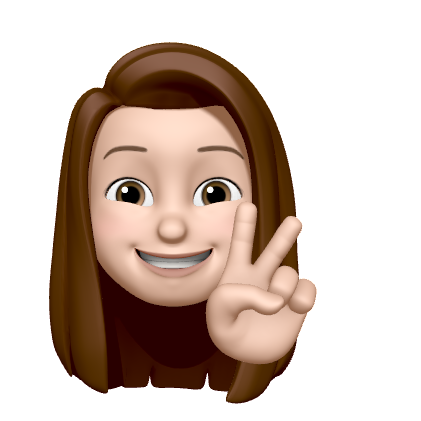
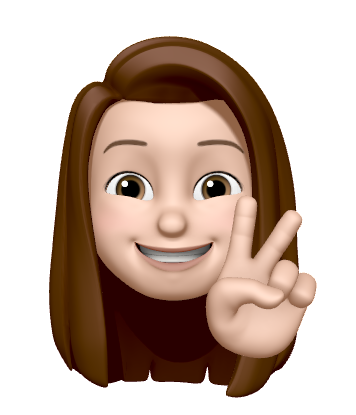
hover changes home

diff --git a/src/data.js b/src/data.js
@@ -4,7 +4,7 @@ export const projects = [
       subtitle: "React, HTML, CSS",
       description:
         "Designing and Developing a website to browse Spotify's newest releases",
-      image: "jamz-mockup.png",
+      image: "jamz/jamz-mockup.png",
       link: "https://happyquokka123.github.io/jamz-findz",
     },
     {
@@ -12,7 +12,7 @@ export const projects = [
       subtitle: "Swift, Python",
       description:
         "A mobile app to practice speech, built for those with speech impediments.",
-      image: "speech-me-mockup.png",
+      image: "speech-me/speech-me-mockup.png",
       link: "",
     },
     {
@@ -20,15 +20,15 @@ export const projects = [
       subtitle: "HTML, CSS, and JS",
       description:
         "Responsive redesign of a local bagel restaurant's website. Built with HTML, CSS, and JavaScript.",
-      image: "redesign-mockup.png",
+      image: "redesign/redesign-mockup.png",
       link: "/redesign",
     },
     {
-        title: "Iterative Design for Hello",
+        title: "Hello",
         subtitle: "Figma",
         description:
           "Iterative design project for Hello, a startup search engine for develoopers.",
-        image: "hello-mockup.png",
+        image: "hello/hello-mockup.png",
         link: "",
     },
     {
@@ -36,7 +36,7 @@ export const projects = [
       subtitle: "UX Research",
       description:
         "UX research project on the users of Coca Cola drink dispenser at Brown",
-      image: "memoji.png",
+      image: "personas/personas.png",
       link: "https://happyquokka123.github.io/cs1300-personas/",
     },
   ];

diff --git a/src/components/Projects.js b/src/components/Projects.js
@@ -11,14 +11,14 @@ export default function Projects() {
             <Link
               to={project.link}
               key={project.title}
-              className="sm:w-1/2 w-9/12 sm:p-8 p-6">
+              className="sm:w-1/2 w-9/12 sm:p-8 p-6 hover:duration-300 hover:scale-110">
                 <div className="p-3 sm:h-96 flex relative rounded-2xl drop-shadow-lg bg-gradient-to-r from-blue-200 to-pink-100 opacity-80">
                     <img
                     alt="project-img"
                     className="p-10 absolute inset-0 w-full h-full object-scale-down object-center"
                     src={require("../assets/" + project.image)}
                     />
-                    <div className="px-8 py-10 relative z-10 w-full rounded-2xl bg-white opacity-0 hover:opacity-95">
+                    <div className="px-8 py-10 relative z-10 w-full rounded-2xl bg-white opacity-0 hover:opacity-95 hover:duration-500">
                         <h1 className="text-3xl font-medium mb-3">
                             {project.title}
                         </h1>
